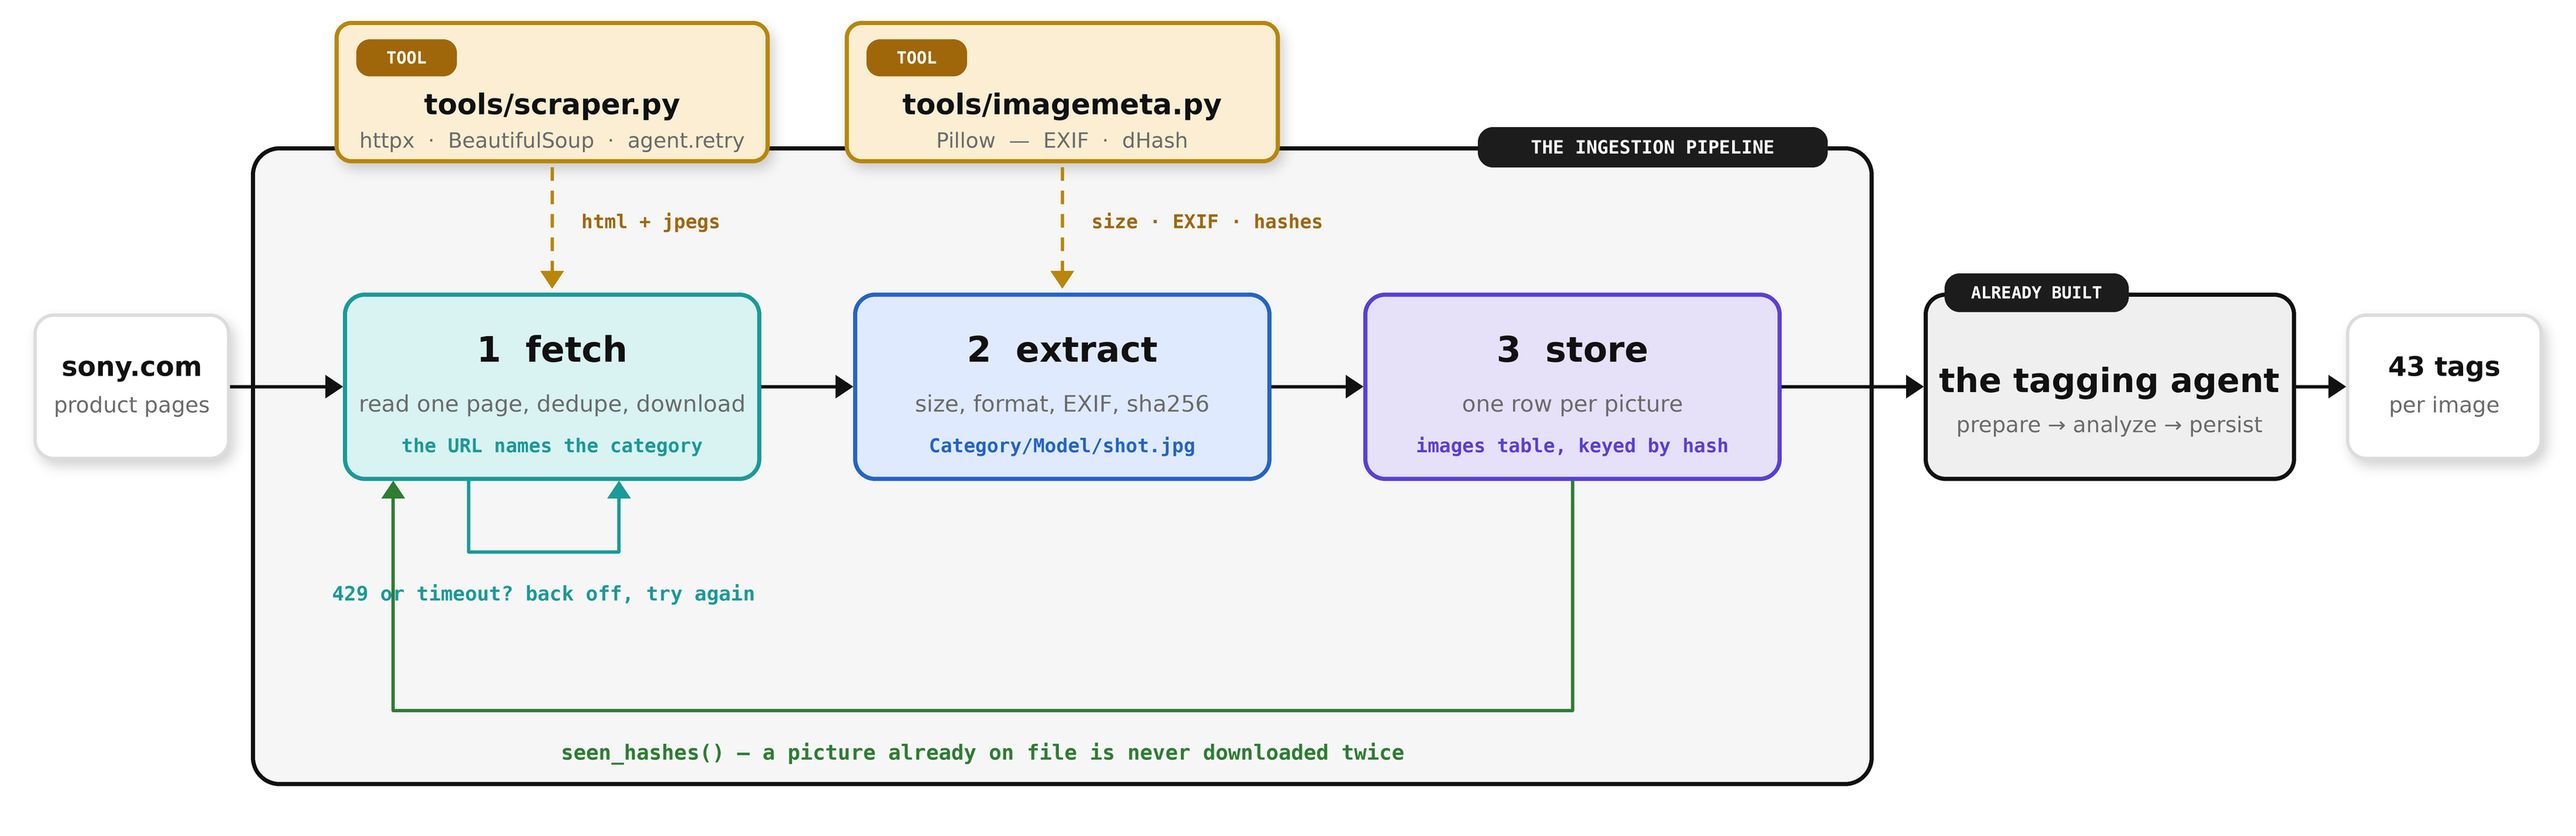
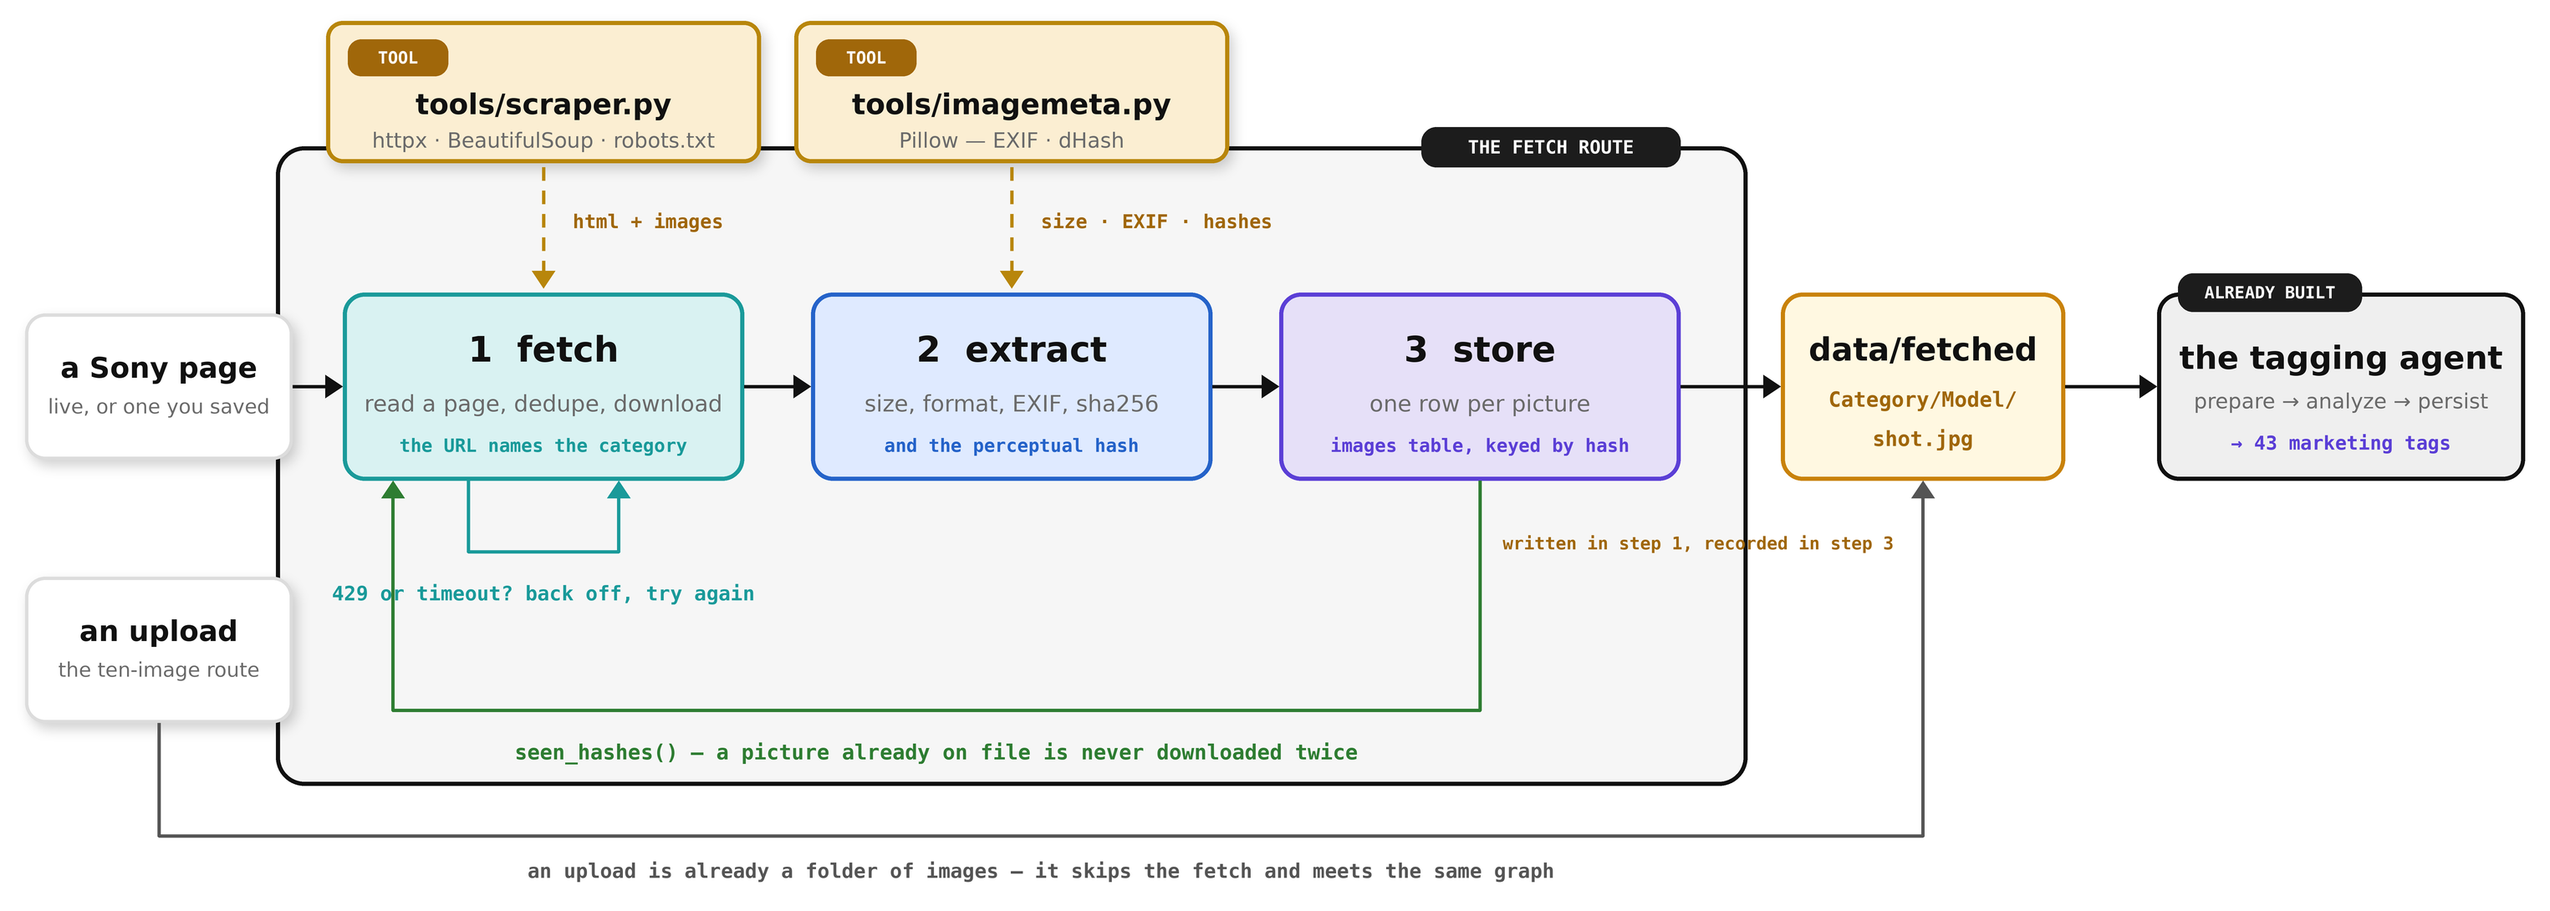
Redraw the diagram, and record the fetch route running
The diagram now shows what the branch actually built: two ways in — a Sony
page, live or saved, and the ten-image upload — meeting at one Category/Model
folder and one graph. The upload skips the fetch entirely, which is the point
of writing the folder in that shape, so it is drawn skipping it.

fetch-run.gif is a real session, verbatim: one page fetched, four images kept,
then the same command again keeping none because every hash is already on
file. It runs --scraper mock, which is visible in the typed command — a live
page needs a network Sony will talk to.

Changed region(s): [[0.0, 0.0, 0.9967, 0.961]]

diff --git a/README.md b/README.md
@@ -60,7 +60,13 @@ Images reach the agent two ways, and both end as a `Category/Model` folder, so t
 the same either way: upload them, or fetch them. `fetch --scraper mock` draws its own pictures,
 so the second route can be tried with no network and no key.
 
-![sony.com, fetch, extract, store — then the tagging agent that was already there](ingestion-diagram.png)
+![two ways in — a Sony page or an upload — meeting one Category/Model folder and one graph](ingestion-diagram.png)
+
+![fetching a product page twice: four new images, then none](fetch-run.gif)
+
+The second run downloads nothing: every picture is recognised by its perceptual hash and skipped.
+The recording uses `--scraper mock`, which draws its own images through the identical code path —
+a live page needs a network Sony will talk to, or a page saved from your browser.
 
 Every run writes a timestamped JSON record to `results/` — the settings, what came back, and what
 it cost. `tag` also writes one row per image into `results.sqlite3`, which is what the app's
